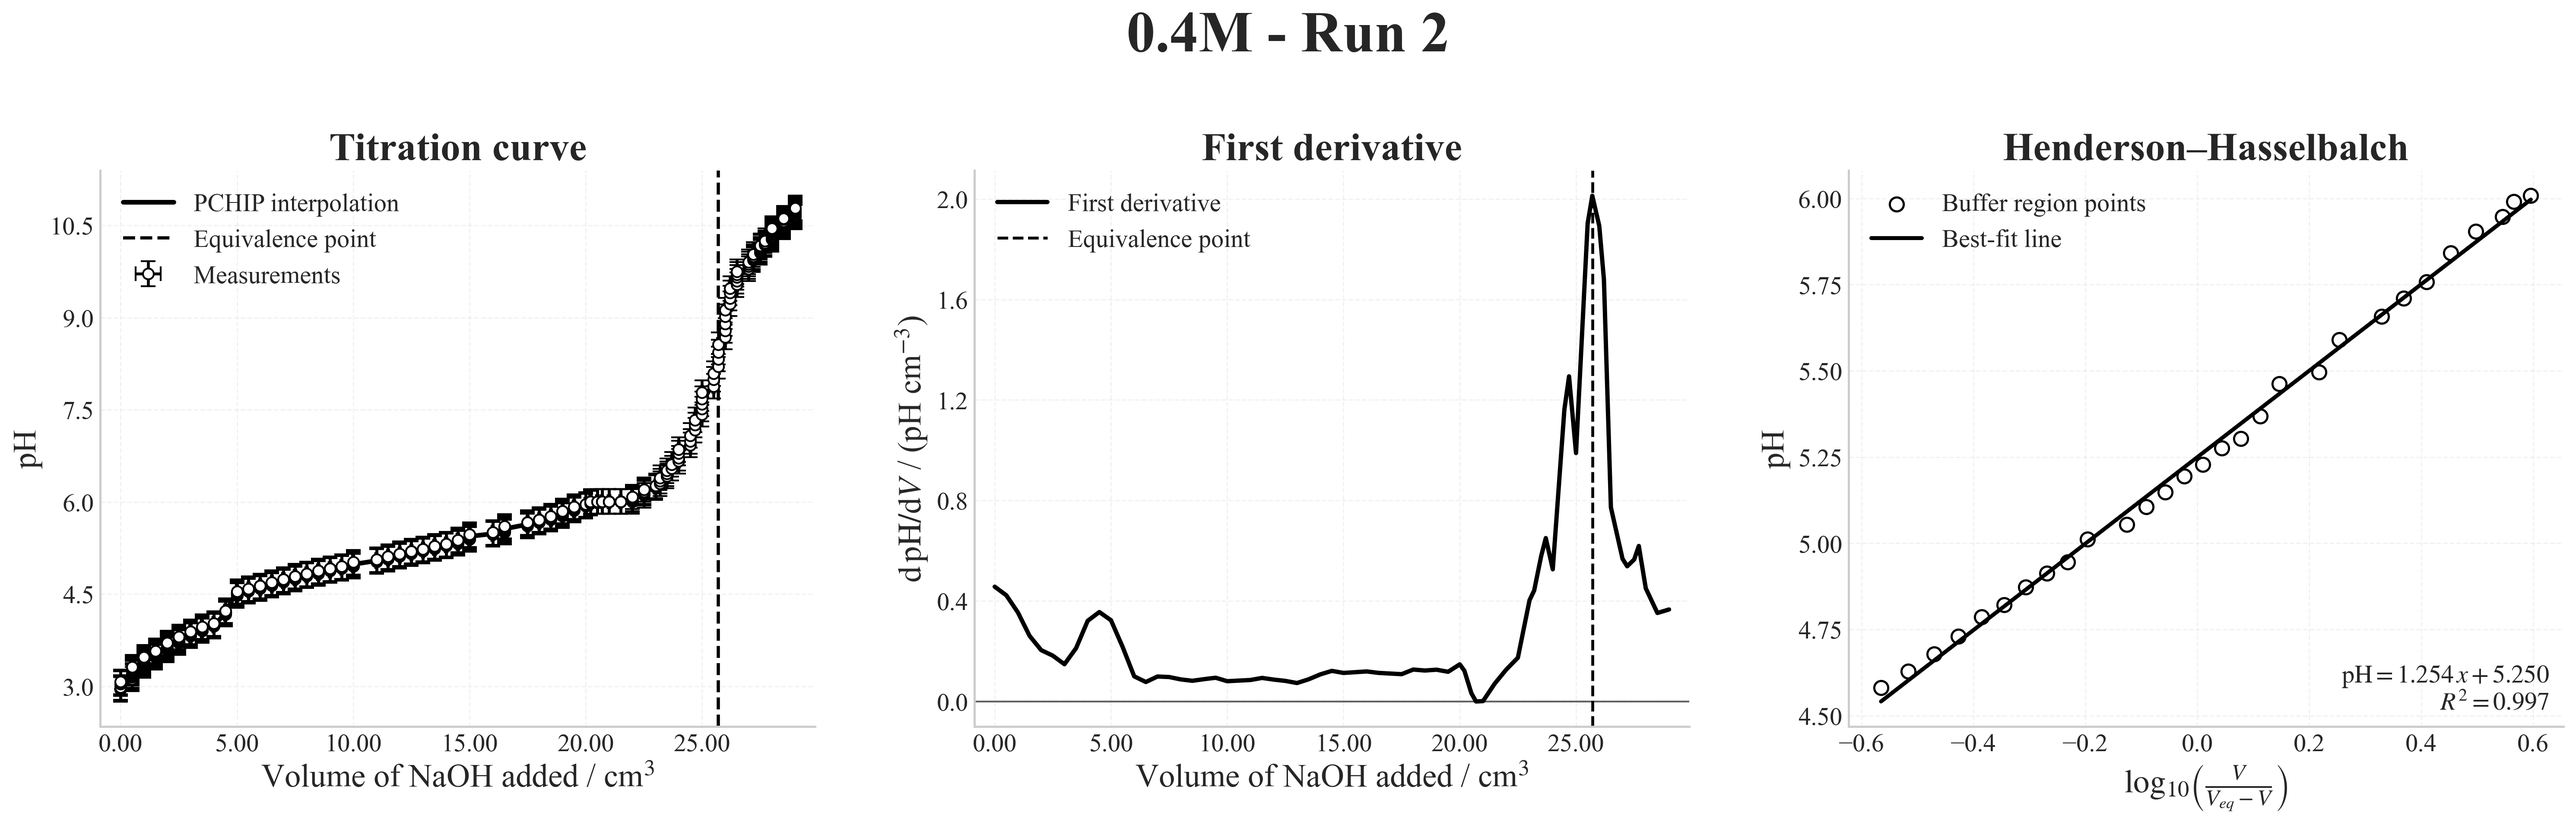
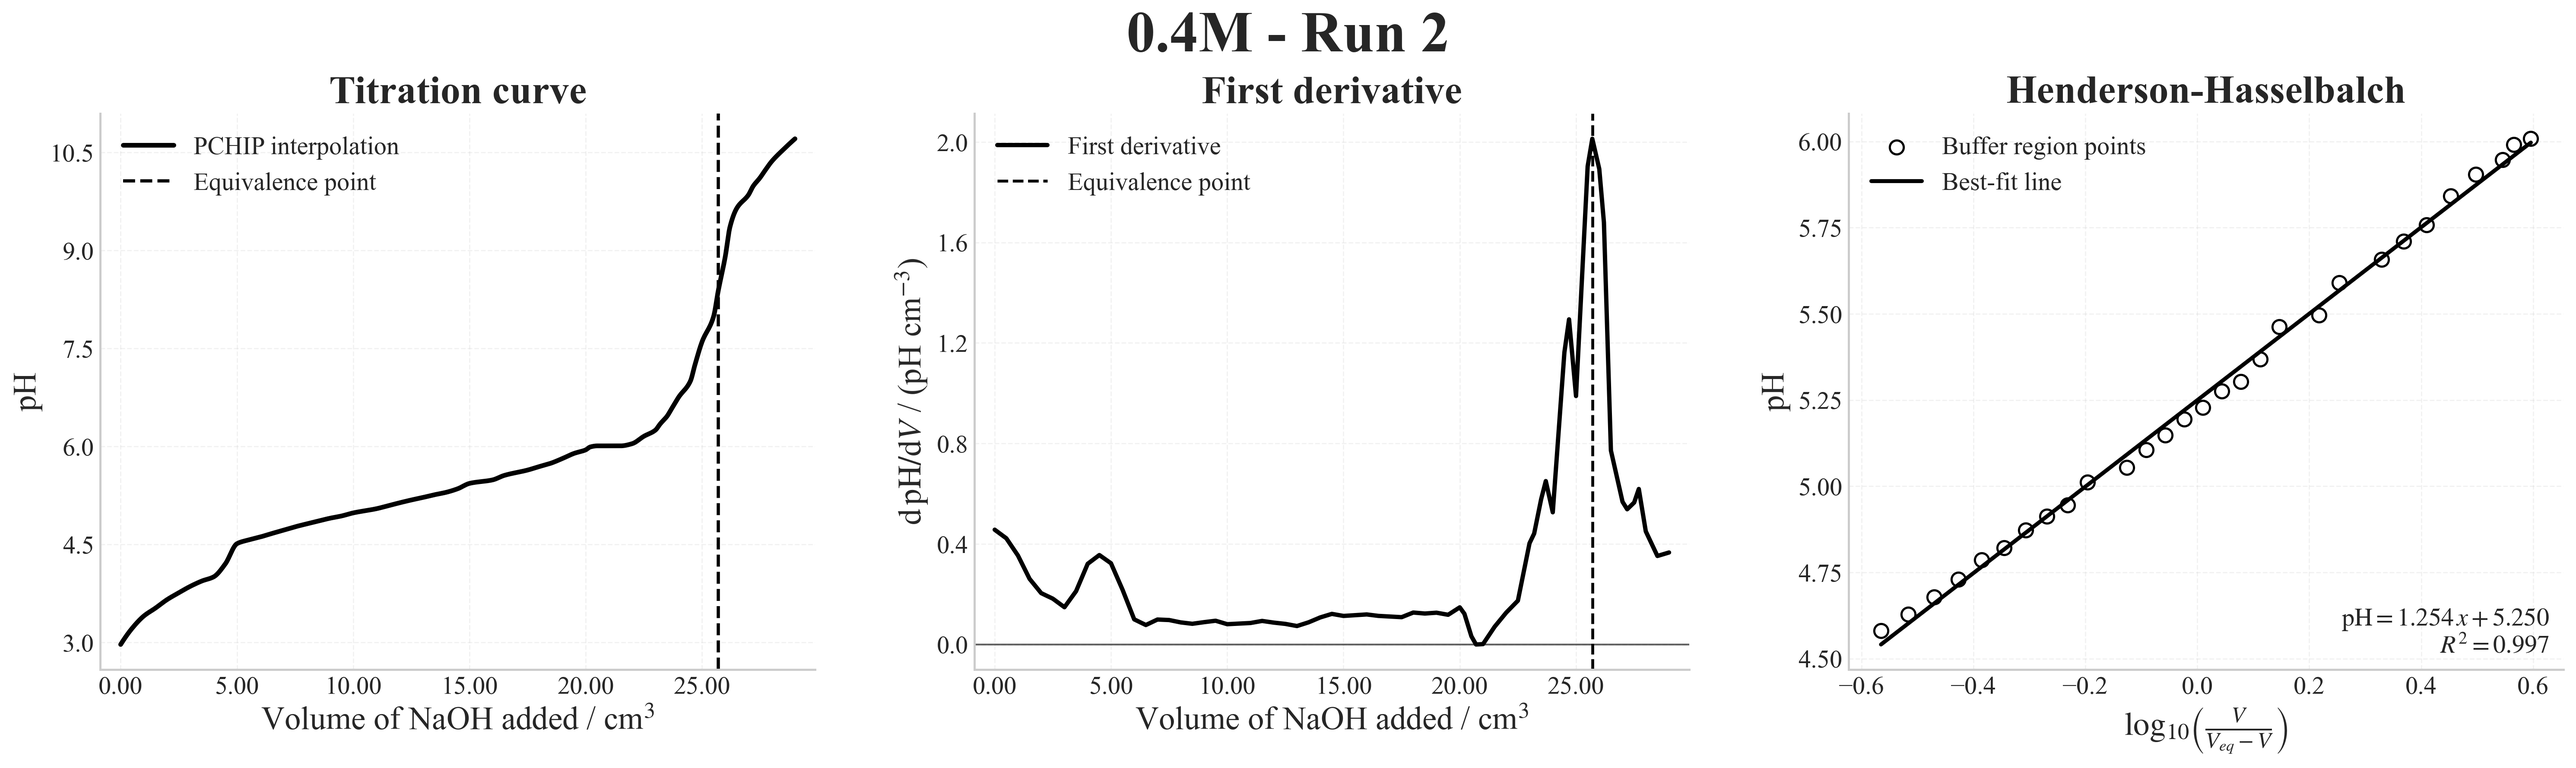
fix

diff --git a/salty/plotting.py b/salty/plotting.py
@@ -1,5 +1,5 @@
 """
-Plotting module for titration analysis (IB IA–standard, interpretability-first).
+Plotting module for titration analysis (IB IA-standard, interpretability-first).
 
 Updates in this revision:
 - Any units containing powers/subscripts/superscripts are LaTeX-wrapped so Matplotlib renders them correctly:
@@ -199,12 +199,12 @@ def setup_plot_style():
 # ----------------------------
 
 
-def plot_titration_curves(results: List[Dict], output_dir: str = "output") -> List[str]:
+def plot_titration_curves(results: List[Dict], output_dir: str = "output", show_raw_pH: bool = False) -> List[str]:
     """
     For each run, saves ONE black-and-white figure with 3 panels:
     (1) pH vs Volume (with xerr and yerr) + PCHIP interpolation
     (2) First derivative vs Volume
-    (3) Henderson–Hasselbalch diagnostic (scatter + best-fit + eqn/R² bottom-right)
+    (3) Henderson-Hasselbalch diagnostic (scatter + best-fit + eqn/R² bottom-right)
 
     Returns list of PNG paths.
     """
@@ -240,7 +240,7 @@ def plot_titration_curves(results: List[Dict], output_dir: str = "output") -> Li
         )
 
         fig, (ax1, ax2, ax3) = plt.subplots(1, 3, figsize=(21, 6.8))
-        fig.suptitle(run_name, fontweight="bold", fontsize=32, y=0.965)
+        fig.suptitle(run_name, fontweight="bold", fontsize=32, y=0.90)
 
         # -------------------------
         # (1) Titration curve
@@ -252,21 +252,22 @@ def plot_titration_curves(results: List[Dict], output_dir: str = "output") -> Li
         x_raw = pd.to_numeric(raw_df[x_col], errors="coerce").to_numpy(dtype=float)
         y_raw = pd.to_numeric(raw_df["pH"], errors="coerce").to_numpy(dtype=float)
 
-        ax1.errorbar(
-            x_raw,
-            y_raw,
-            xerr=(delivered_unc if is_volume else None),
-            yerr=ph_unc,
-            fmt="o",
-            markersize=6,
-            markerfacecolor="white",
-            markeredgecolor="black",
-            ecolor=ecolor_bar,
-            elinewidth=1.6,
-            capsize=4,
-            alpha=1.0,  # markers opaque; bars/caps use RGBA ecolor for transparency
-            label="Measurements",
-        )
+        if show_raw_pH:
+            ax1.errorbar(
+                x_raw,
+                y_raw,
+                xerr=(delivered_unc if is_volume else None),
+                yerr=ph_unc,
+                fmt="o",
+                markersize=6,
+                markerfacecolor="white",
+                markeredgecolor="black",
+                ecolor=ecolor_bar,
+                elinewidth=1.6,
+                capsize=4,
+                alpha=1.0,  # markers opaque; bars/caps use RGBA ecolor for transparency
+                label="Measurements",
+            )
 
         x_smooth, y_smooth = _titration_interpolated_curve(
             x_raw, y_raw, n_points=900 if is_volume else 600
@@ -353,7 +354,7 @@ def plot_titration_curves(results: List[Dict], output_dir: str = "output") -> Li
         ax2.legend(loc="best")
 
         # -------------------------
-        # (3) Henderson–Hasselbalch diagnostic
+        # (3) Henderson-Hasselbalch diagnostic
         # -------------------------
         if not buffer_df.empty and {"log10_ratio", "pH_step"}.issubset(
             buffer_df.columns
@@ -400,7 +401,7 @@ def plot_titration_curves(results: List[Dict], output_dir: str = "output") -> Li
                     fontsize=14,
                 )
 
-        ax3.set_title("Henderson–Hasselbalch", fontweight="bold")
+        ax3.set_title("Henderson-Hasselbalch", fontweight="bold")
         ax3.set_xlabel(r"$\log_{10}\!\left(\frac{V}{V_{eq}-V}\right)$")
         ax3.set_ylabel("pH")
         ax3.yaxis.set_major_locator(MaxNLocator(nbins=7))

diff --git a/salty/analysis.py b/salty/analysis.py
@@ -1,9 +1,9 @@
 """
 DP Chemistry SL titration analysis.
 
-This module analyzes weak acid–strong base titration data to estimate:
+This module analyzes weak acid-strong base titration data to estimate:
 - Equivalence volume (V_eq) from the maximum of d(pH)/dV (inflection point).
-- Apparent pK_a from Henderson–Hasselbalch buffer-region linear regression:
+- Apparent pK_a from Henderson-Hasselbalch buffer-region linear regression:
     pH = m * log10(V / (V_eq - V)) + b, where b ≈ pK_a.
   The regression is performed for every run (no slope/R^2 gating). Slope and R^2 are reported
   as diagnostics only.

diff --git a/salty/data_processing.py b/salty/data_processing.py
@@ -1,5 +1,5 @@
 """
-CSV parsing and stepwise titration data processing (DP Chemistry SL–aligned).
+CSV parsing and stepwise titration data processing (DP Chemistry SL-aligned).
 
 This module:
 - Extracts Logger Pro "Run X: ..." wide-format exports into tidy per-run DataFrames.

diff --git a/README.md b/README.md
@@ -1,2 +1,2 @@
 # in-the-salt-mines
-🧪 Exploring how ionic strength from NaCl alters half-equivalence pH in ethanoic acid–NaOH titrations
+🧪 Exploring how ionic strength from NaCl alters half-equivalence pH in ethanoic acid-NaOH titrations
